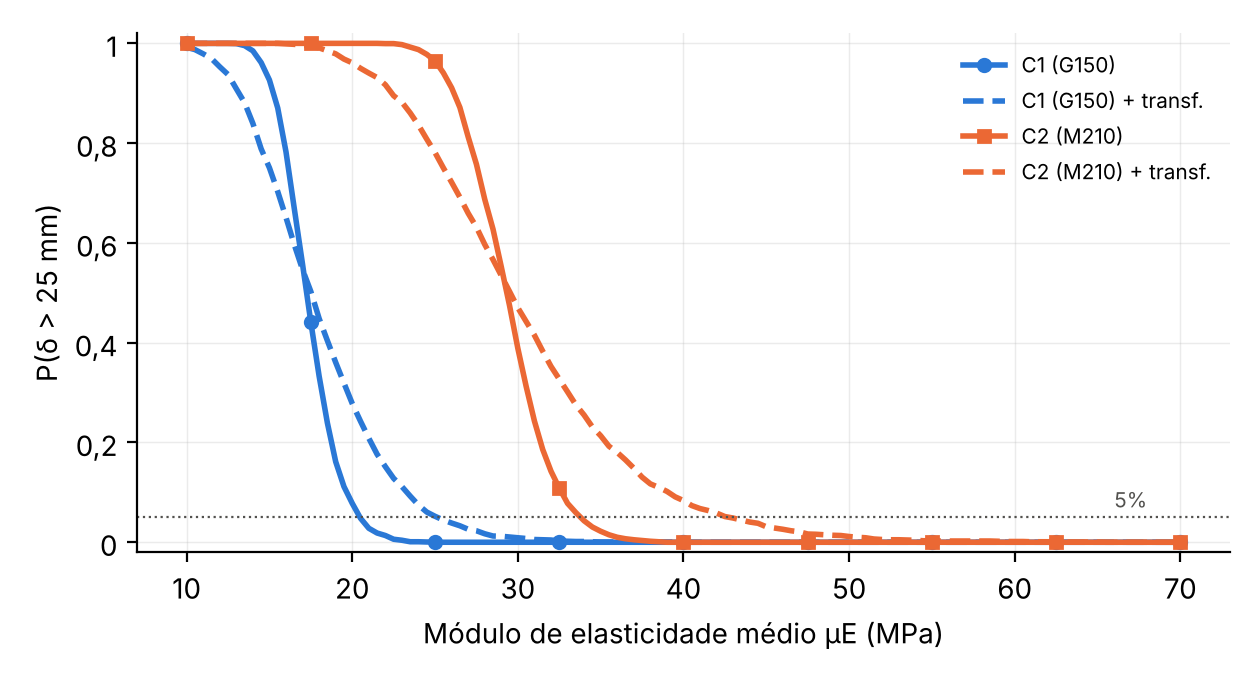
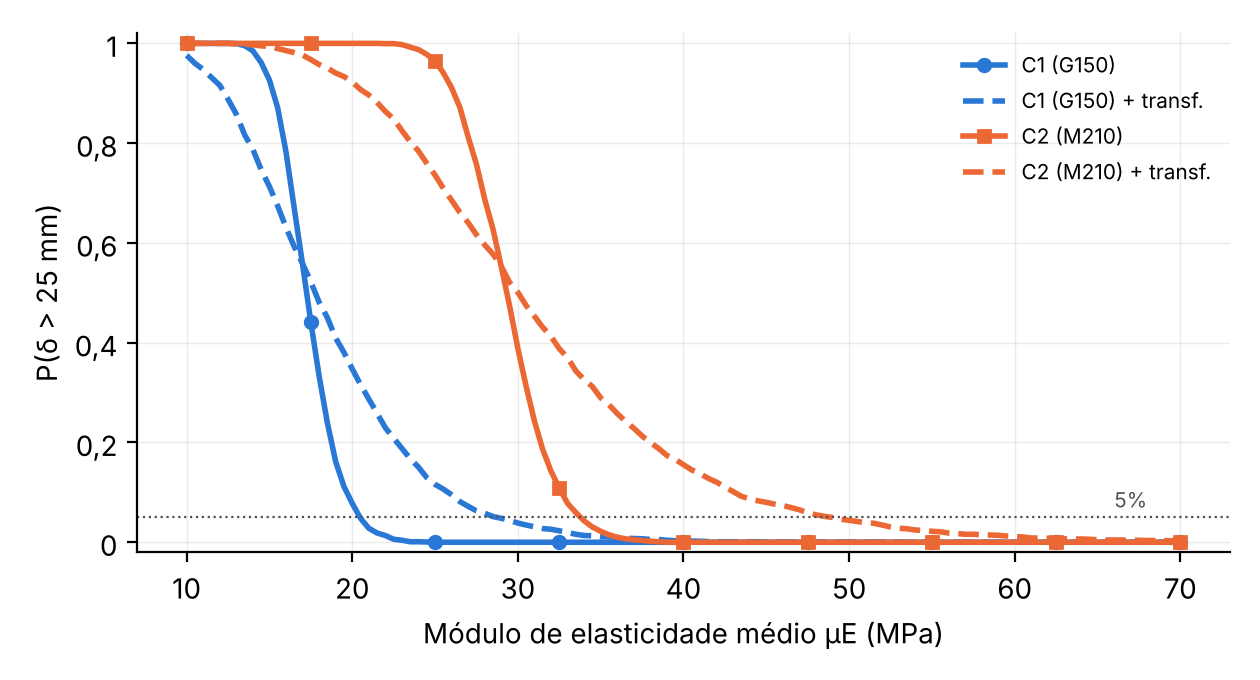
posproc.py: incerteza de transformação de Phoon e Kulhawy (1999b)
COV_t = 0,28 (correlação local E_D–N) no caso (d) e 1,03 (correlação global
E_PMT–N) no novo caso (e) do módulo mínimo; Figura 3 atualizada.

Claude-Session: https://claude.ai/code/session_01MSMm5EQEYNFsSNYD9D1DaQ

diff --git a/posproc.py b/posproc.py
@@ -12,7 +12,8 @@ Criterios de modulo minimo para delta <= 25 mm (C1 e C2, caso base):
   (a) deterministico com o modulo medio;
   (b) deterministico com o modulo caracteristico E_k = (0,4/0,6) muE (limite inferior de Sandroni);
   (c) probabilistico, P(delta > 25 mm) <= 5 %, so variabilidade espacial;
-  (d) como (c), com incerteza de transformacao COV_t = 0,2 (hipotese).
+  (d) como (c), com incerteza de transformacao COV_t = 0,28 (correlacao local de Phoon e Kulhawy, 1999b);
+  (e) como (c), com COV_t = 1,03 (correlacao global E_PMT-N, SD(log10) = 0,37, mesma fonte).
 
 Sensibilidade (C2): (i) indices de Sobol por fatorial completo na faixa larga muE = 15-70 MPa
 (saida P(delta > 25 mm), quase um degrau); (ii) condicional, muE = 35-45 MPa; (iii) condicional a
@@ -34,7 +35,7 @@ VIRG = FuncFormatter(lambda v, _: f"{v:g}".replace(".", ","))
 D = os.path.join(os.path.dirname(os.path.abspath(__file__)), "out", "cenarios")
 G0 = 9.81
 EQUIP = {"C1": (37.0, 3.50, 3.955), "C2": (77.0, 4.20, 4.866), "C3": (37.0, 3.50, 3.955)}
-MR_BASE, MUE_BASE, COVT = 3.0, 40e3, 0.2
+MR_BASE, MUE_BASE, COVT = 3.0, 40e3, 0.28  # COV_t: correlacao local E_D-N, SD(log10) = 0,12 (Phoon; Kulhawy, 1999b, p. 636)
 MR_LEV = (1.5, 2.0, 2.5, 3.0)
 MUE_LEV = (15e3, 25e3, 40e3, 55e3, 70e3)
 MUE_COND = (35e3, 37.5e3, 40e3, 42.5e3, 45e3)
@@ -132,6 +133,7 @@ if __name__ == "__main__":
             a_det_media=det / 1e3, b_det_caracteristico=det / SANDRONI_KF / 1e3,
             c_prob_variabilidade=mu_min(G[:, 0], qB) / 1e3,
             d_prob_com_transformacao=mu_min(G[:, 0] / eps_samples(len(G), COVT), qB) / 1e3,
+            e_prob_correlacao_global=mu_min(G[:, 0] / eps_samples(len(G), 1.03), qB) / 1e3,
             N_a=(det / 1e3 / 0.6) ** (1 / 1.4), N_b=(det / 1e3 / 0.4) ** (1 / 1.4),
             N_c=(mu_min(G[:, 0], qB) / 1e3 / 0.6) ** (1 / 1.4),
             N_d=(mu_min(G[:, 0] / eps_samples(len(G), COVT), qB) / 1e3 / 0.6) ** (1 / 1.4))
